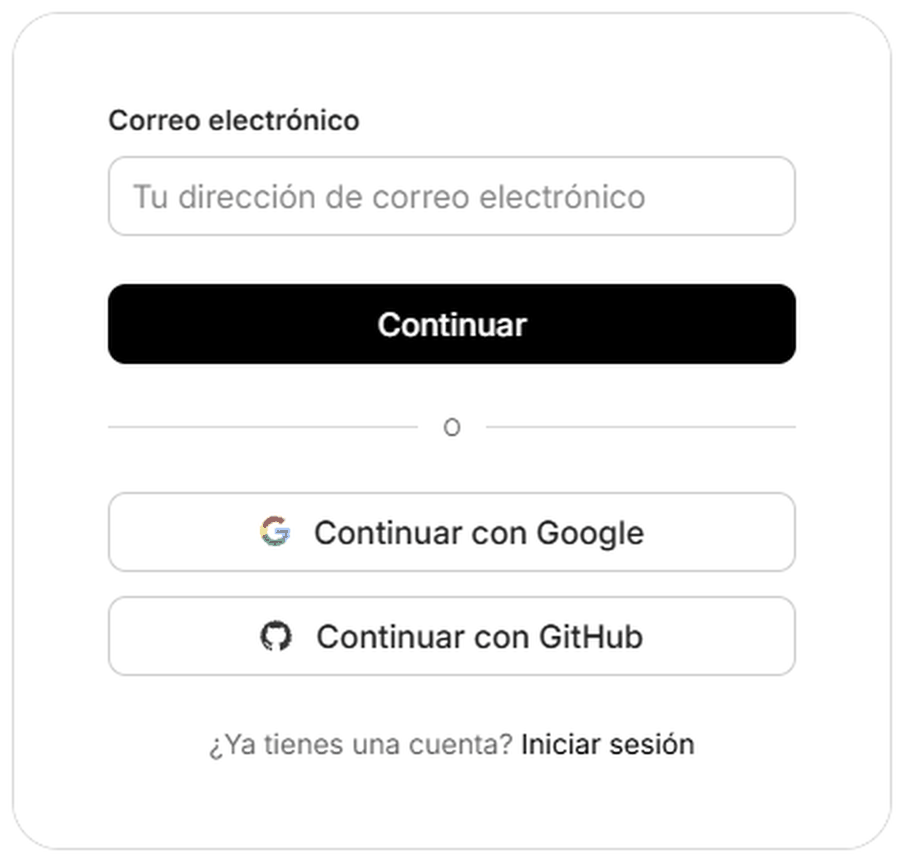
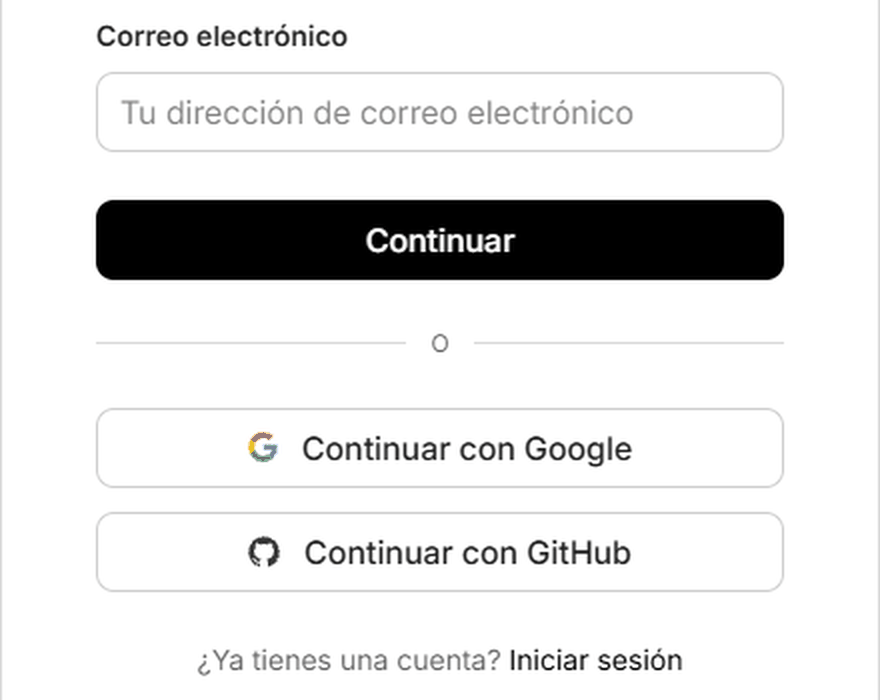
Connect AI steps: more space between steps, bigger numbers

diff --git a/apps/desktop/src/aiSteps/ai-steps.css b/apps/desktop/src/aiSteps/ai-steps.css
@@ -6,11 +6,11 @@ html, body { height: 100%; margin: 0; background: var(--ga-panel); }
 .ga-steps-head { display: flex; align-items: center; justify-content: space-between; gap: 12px; }
 .ga-steps-head .ga-btn-secondary { flex: none; padding-inline: 12px; white-space: nowrap; }
 .ga-steps-title { margin: 0; white-space: nowrap; color: var(--ga-orange); font: 400 34px/1 "Bebas Neue", sans-serif; letter-spacing: .02em; }
-.ga-steps-list { display: grid; gap: 14px; margin: 0; padding: 0; list-style: none; }
+.ga-steps-list { display: grid; gap: 24px; margin: 0; padding: 0; list-style: none; }
 .ga-step { display: grid; gap: 8px; }
 .ga-step-title { display: flex; align-items: center; gap: 10px; margin: 0; font: 700 16px/1.3 var(--ga-text-family); }
-.ga-step-number { flex: none; display: grid; place-items: center; width: 26px; height: 26px; border-radius: 50%; background: var(--ga-orange); color: var(--ga-shade); font: 800 14px/1 var(--ga-text-family); }
+.ga-step-number { flex: none; display: grid; place-items: center; width: 32px; height: 32px; border-radius: 50%; background: var(--ga-orange); color: var(--ga-shade); font: 800 18px/1 var(--ga-text-family); }
 .ga-step-shot { display: block; width: 100%; border: 1px solid var(--ga-line); border-radius: 10px; }
-.ga-steps-key { box-sizing: border-box; width: 100%; height: 60px; padding: 0 14px; border: 2px solid var(--ga-orange); border-radius: 10px; background: var(--ga-field-bg); color: var(--ga-text-ink); font: 500 16px/1.4 Consolas, "Cascadia Mono", monospace; }
+.ga-steps-key { box-sizing: border-box; width: 100%; height: 56px; padding: 0 14px; border: 2px solid var(--ga-orange); border-radius: 10px; background: var(--ga-field-bg); color: var(--ga-text-ink); font: 500 16px/1.4 Consolas, "Cascadia Mono", monospace; }
 .ga-steps-key:focus-visible { outline: 2px solid var(--ga-orange); outline-offset: 3px; }
 .ga-steps-key:disabled { opacity: .6; }
